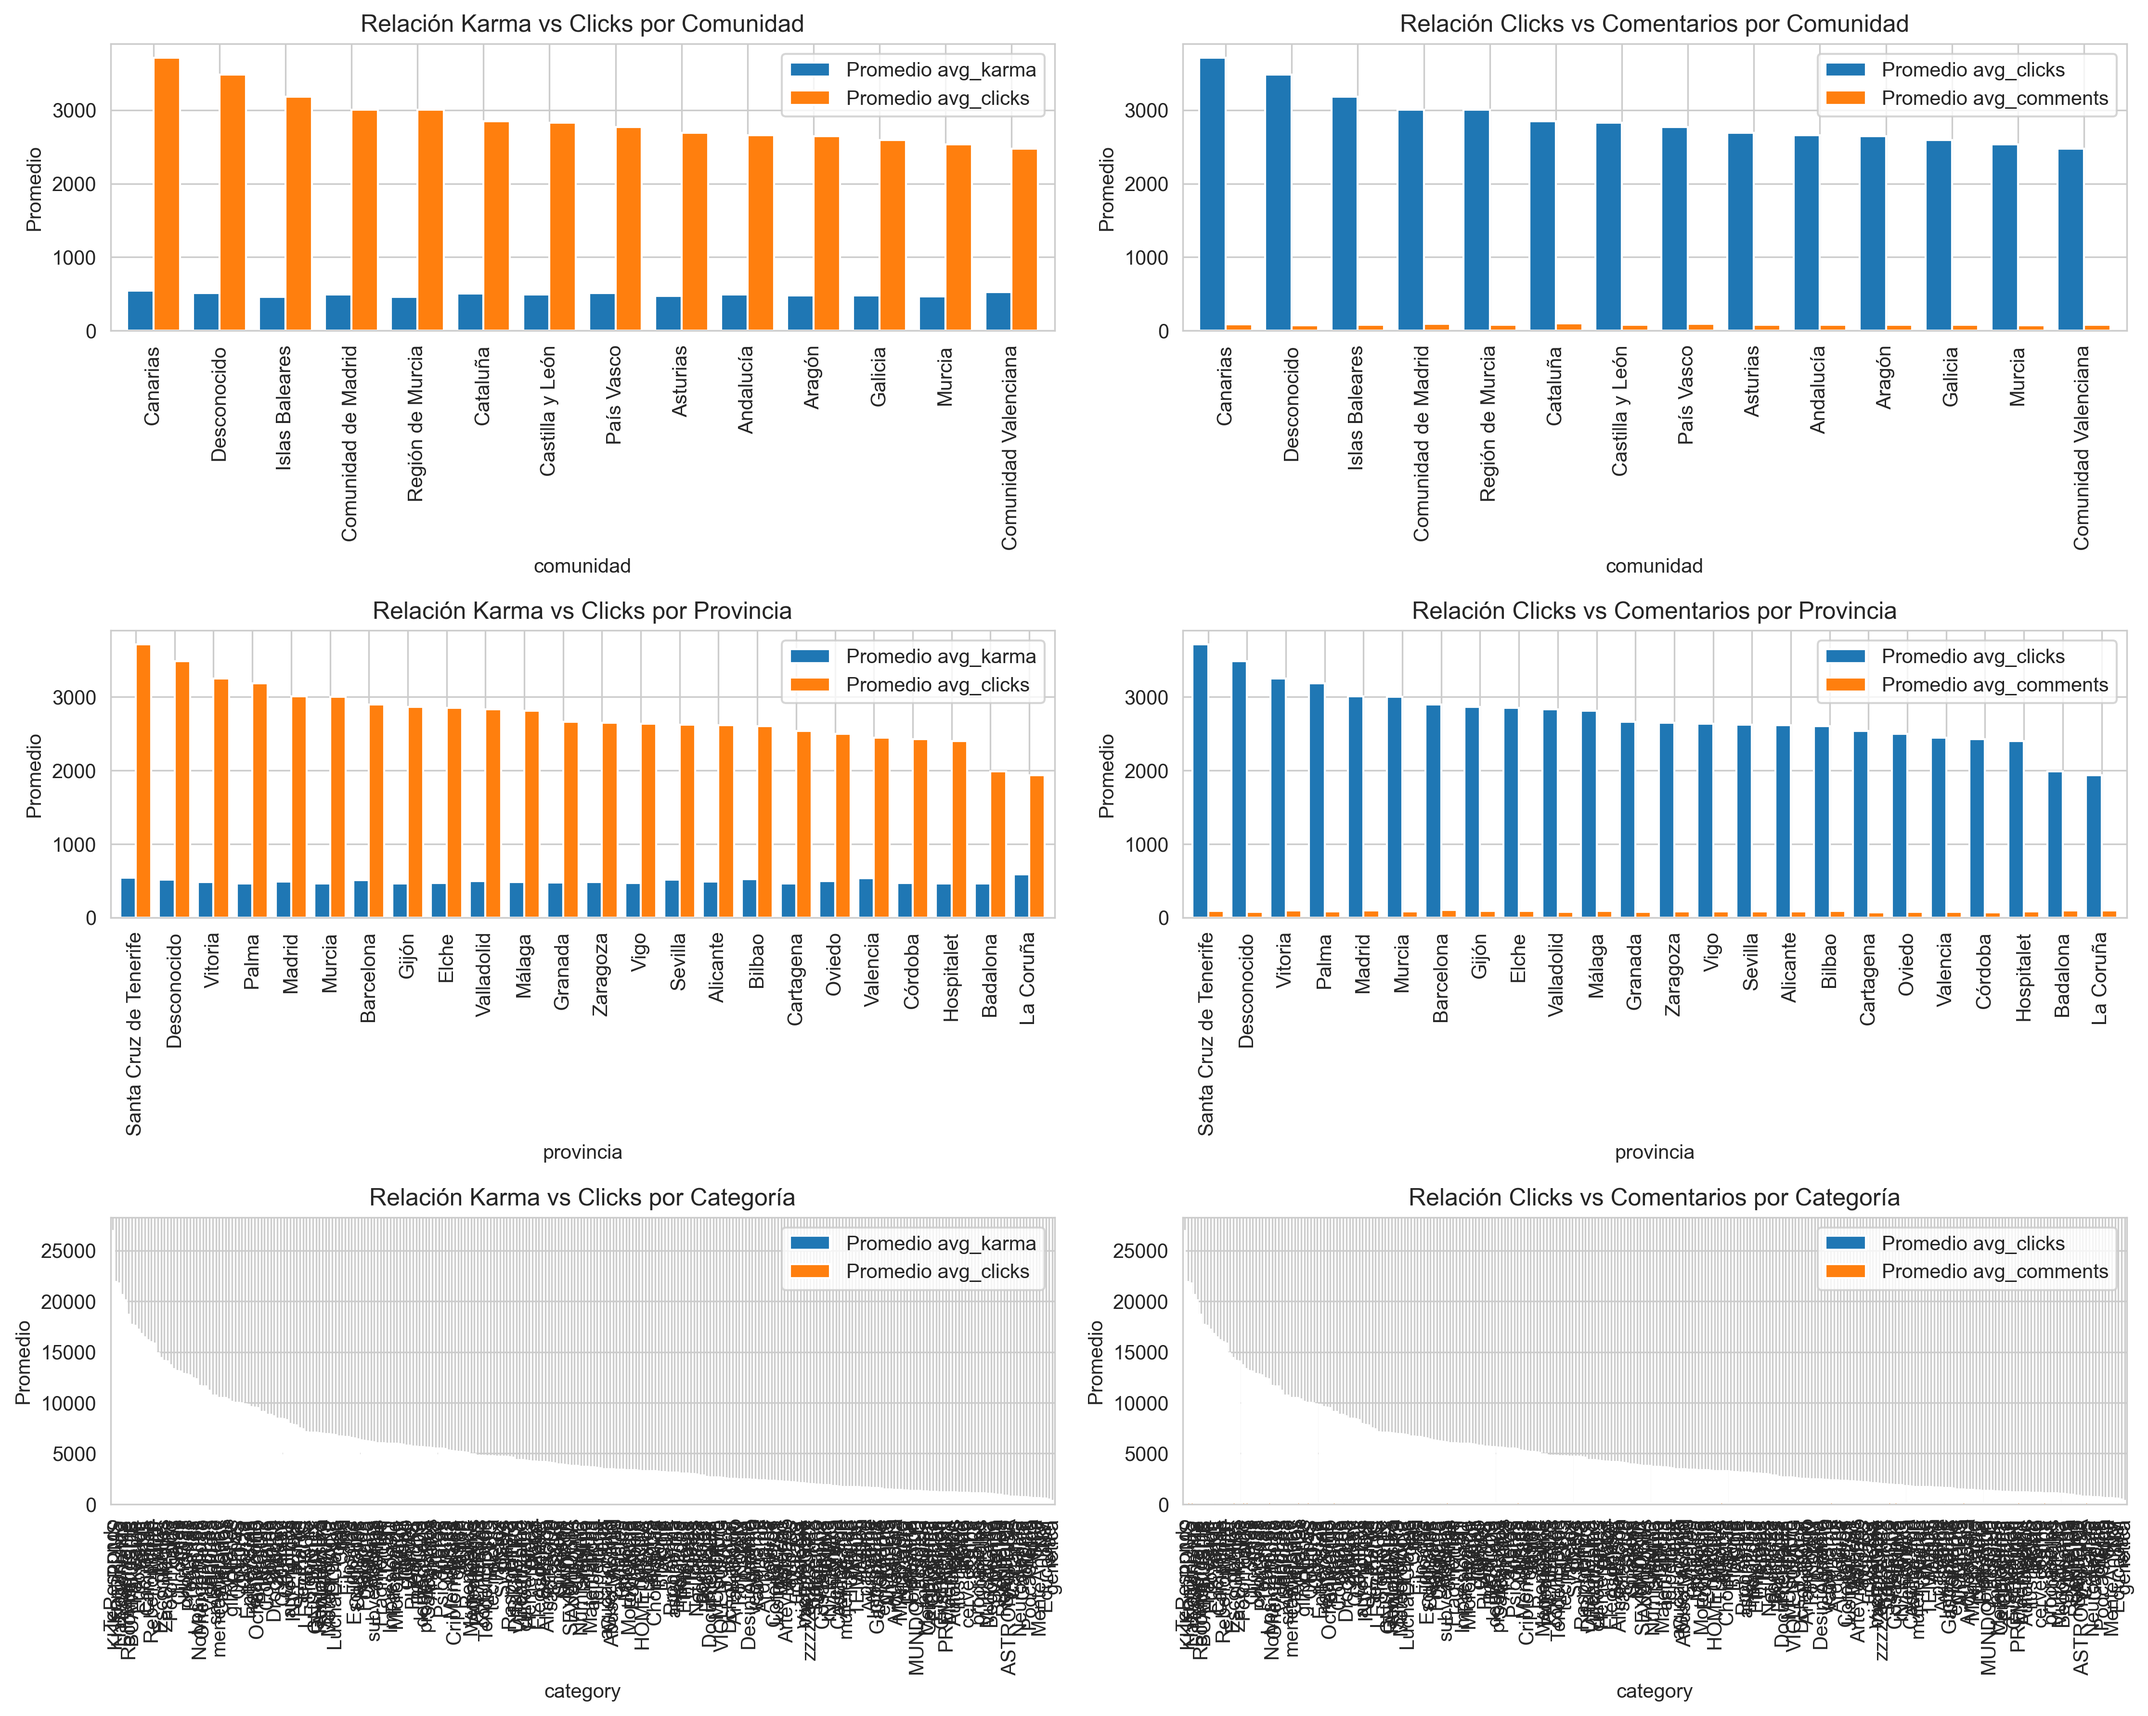
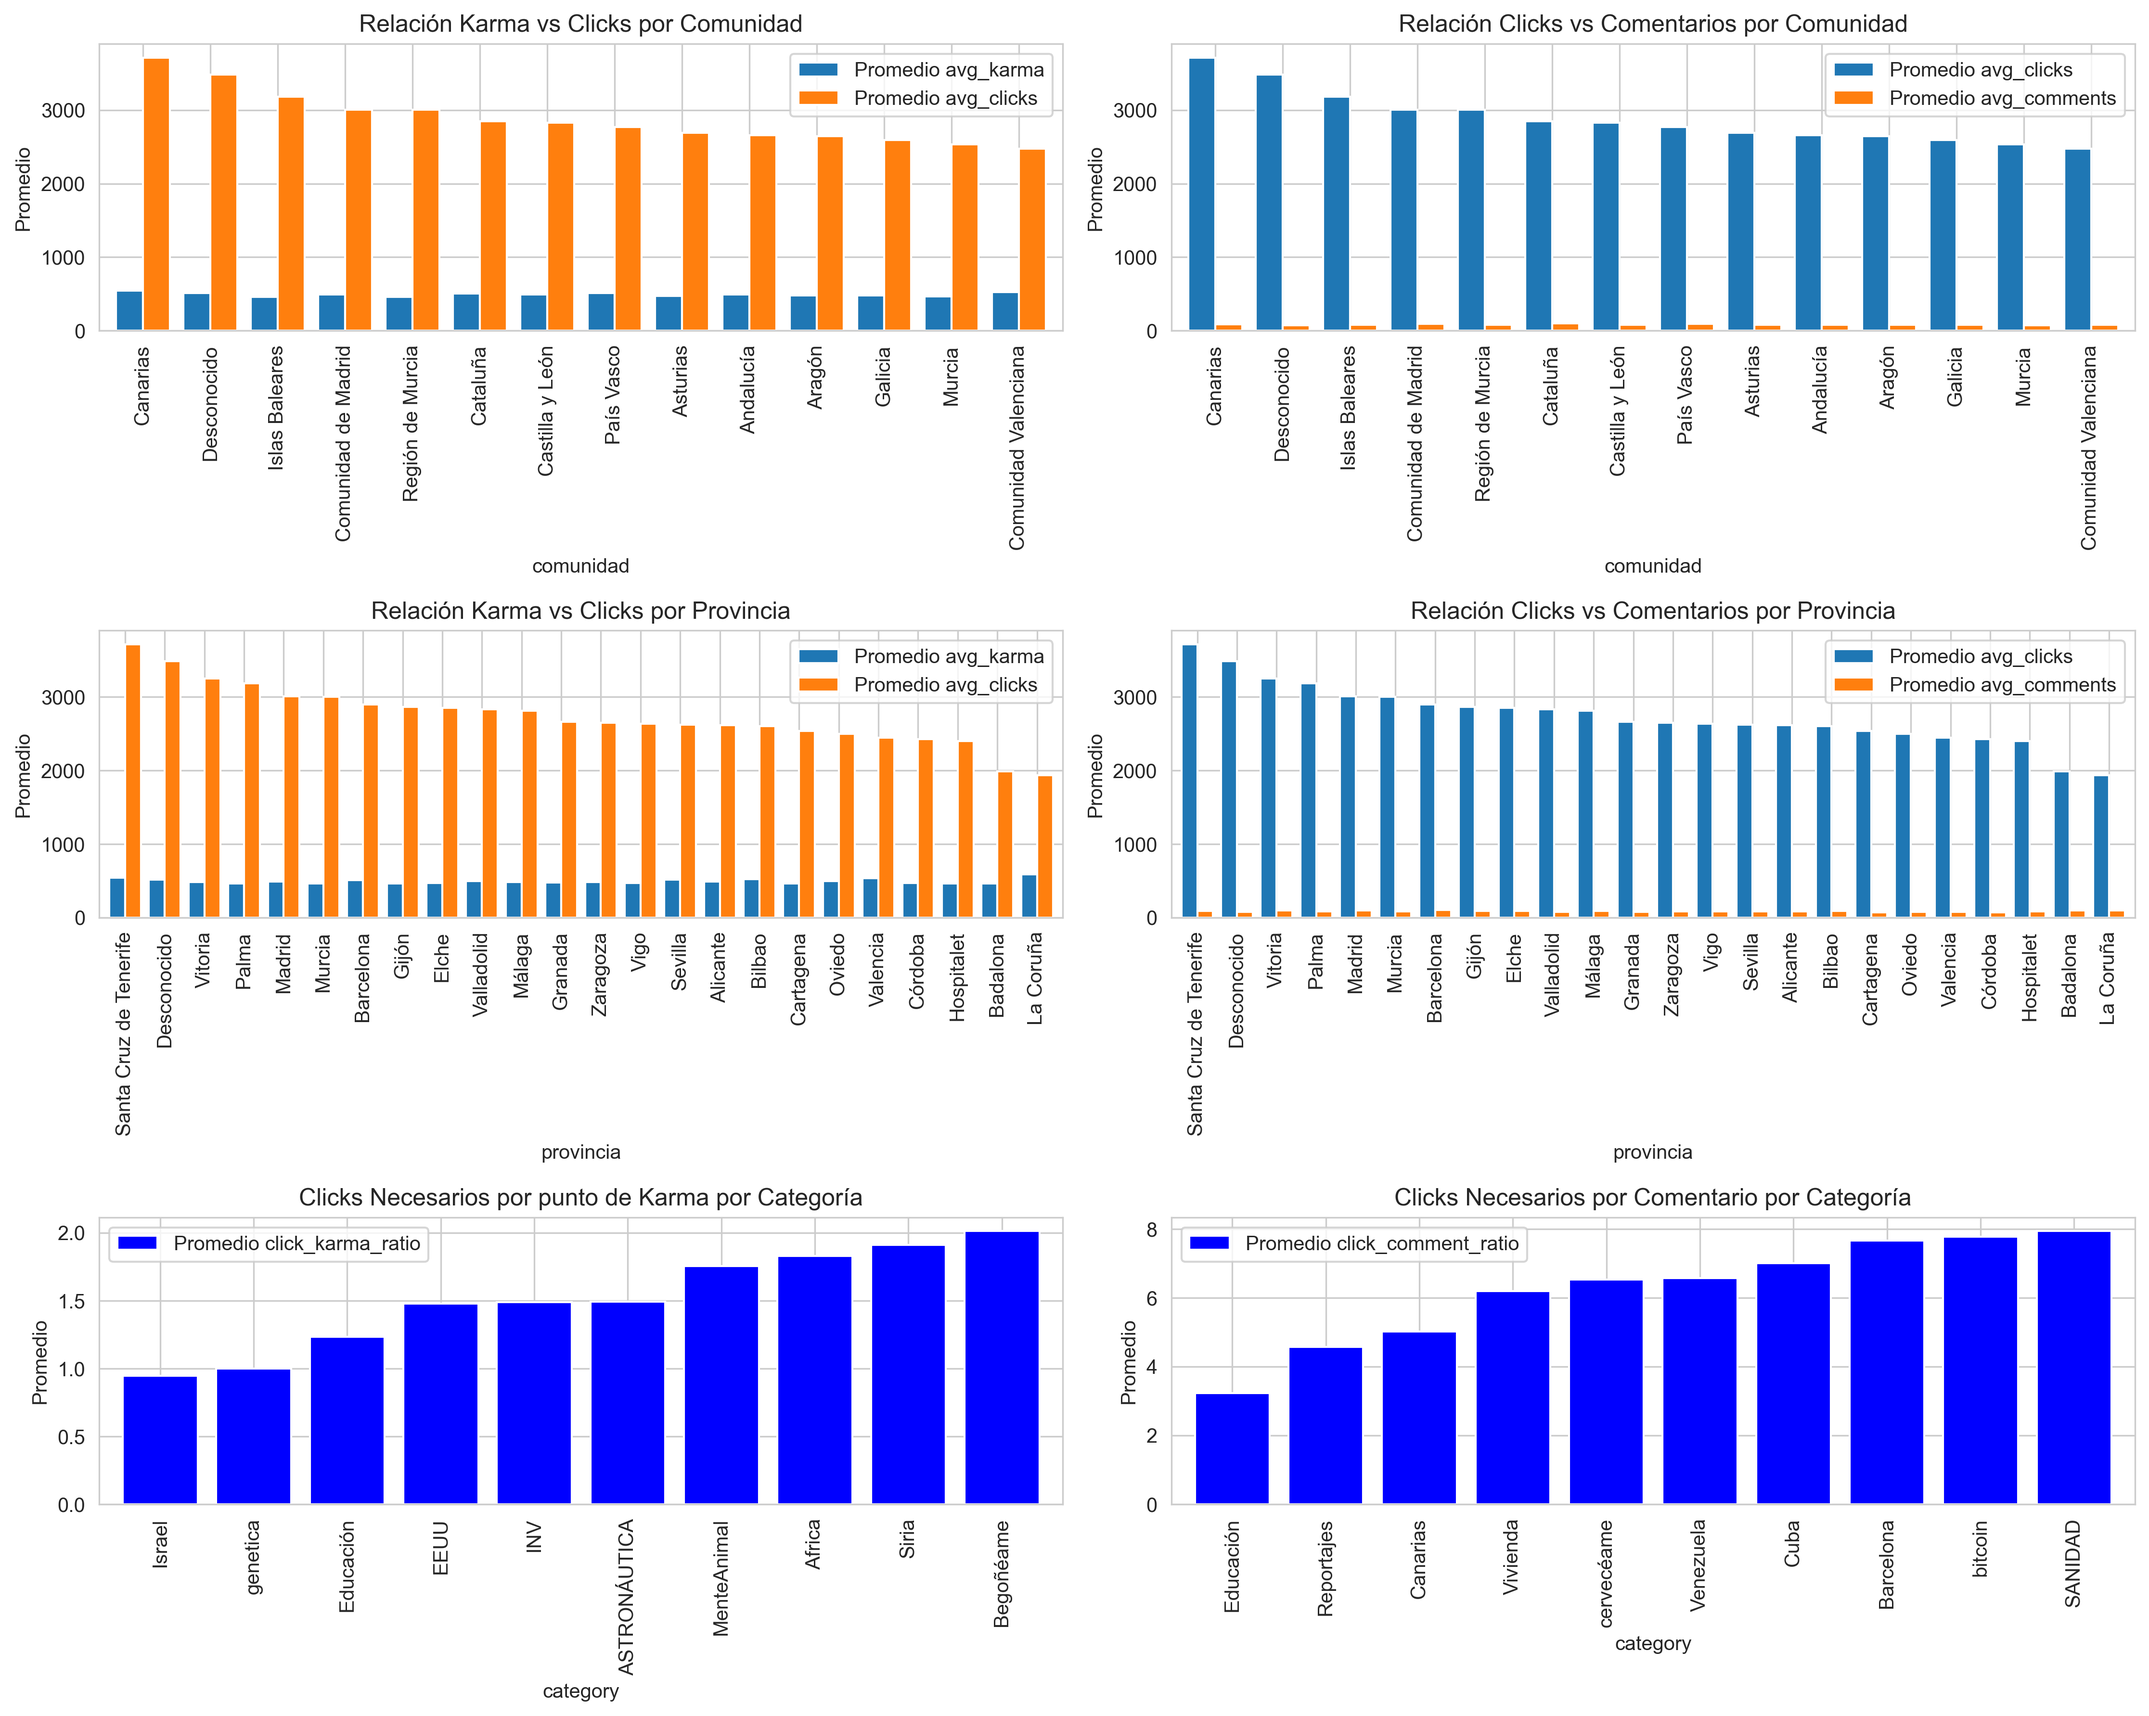
Graficos apartado 4

diff --git a/src/graphs/graphs.py b/src/graphs/graphs.py
@@ -8,7 +8,7 @@ sns.set_style("whitegrid")
 
 # Configurar la conexión a MySQL con SQLAlchemy y mysql-connector
 DB_USER = "root"
-DB_PASSWORD = "password" # reemplaza tu password
+DB_PASSWORD = "Luis_1234_borras" # reemplaza tu password
 DB_HOST = "localhost"
 DB_NAME = "meneame"
 
@@ -52,21 +52,23 @@ queries = {
         ORDER BY avg_clicks DESC;
     """,
     "karma_clicks_categoria": """
-        SELECT c.category, AVG(ni.karma) AS avg_karma, AVG(ni.clicks) AS avg_clicks
+        SELECT c.category, (AVG(ni.clicks) / NULLIF(AVG(ni.karma), 0)) AS click_karma_ratio
         FROM news_info_table ni
         JOIN category_table c ON ni.category_id = c.category_id
         WHERE ni.karma IS NOT NULL AND ni.clicks IS NOT NULL
         GROUP BY c.category
-        ORDER BY avg_clicks DESC;
+        ORDER BY click_karma_ratio ASC
+        LIMIT 10;
     """,
     "clicks_comentarios_categoria": """
-        SELECT c.category, AVG(ni.clicks) AS avg_clicks, AVG(ni.comments) AS avg_comments
+        SELECT c.category, (AVG(ni.clicks) / NULLIF(AVG(ni.comments), 0)) AS click_comment_ratio
         FROM news_info_table ni
         JOIN category_table c ON ni.category_id = c.category_id
         WHERE ni.clicks IS NOT NULL AND ni.comments IS NOT NULL
         GROUP BY c.category
-        ORDER BY avg_clicks DESC;
-    """
+        ORDER BY click_comment_ratio ASC
+        LIMIT 10;
+    """,
 }
 
 # Crear gráficos
@@ -79,8 +81,8 @@ titles = [
     "Relación Clicks vs Comentarios por Comunidad",
     "Relación Karma vs Clicks por Provincia",
     "Relación Clicks vs Comentarios por Provincia",
-    "Relación Karma vs Clicks por Categoría",
-    "Relación Clicks vs Comentarios por Categoría"
+    "Clicks Necesarios por punto de Karma por Categoría",
+    "Clicks Necesarios por Comentario por Categoría"
 ]
 
 # Iterar sobre cada consulta y graficarla
@@ -90,18 +92,21 @@ for i, (key, query) in enumerate(queries.items()):
 
     # Extraer nombres de columnas
     x_column = df.columns[0]  # Nombre de la columna de agrupación (Comunidad, Provincia o Categoría)
-    y1_column = df.columns[1]  # Primera métrica (karma o clicks)
-    y2_column = df.columns[2]  # Segunda métrica (clicks o comentarios)
+    y_columns = df.columns[1:]  # Columnas de métricas
 
     # Graficar en el subplot correspondiente
     ax = axes[i]
-    df.plot(x=x_column, y=[y1_column, y2_column], kind="bar", ax=ax, width=0.8)
+    if len(y_columns) == 2:
+        df.plot(x=x_column, y=y_columns.tolist(), kind="bar", ax=ax, width=0.8)
+        ax.legend(["Promedio " + y_columns[0], "Promedio " + y_columns[1]])
+    else:
+        df.plot(x=x_column, y=y_columns[0], kind="bar", ax=ax, color='b', width=0.8)
+        ax.legend(["Promedio " + y_columns[0]])
 
     # Personalización del gráfico
     ax.set_title(titles[i], fontsize=12)
     ax.set_xlabel(x_column, fontsize=10)
     ax.set_ylabel("Promedio", fontsize=10)
-    ax.legend(["Promedio " + y1_column, "Promedio " + y2_column])
     ax.tick_params(axis='x', rotation=90)  # Rotar etiquetas en el eje X para mejor visualización
 
 # Ajustar diseño y mostrar gráficos
